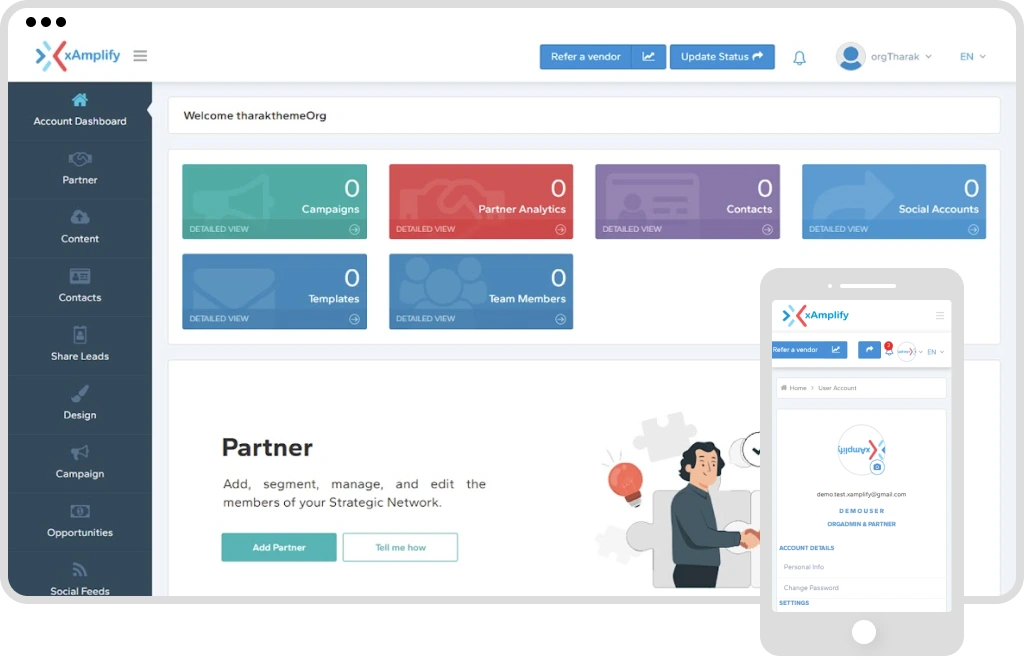
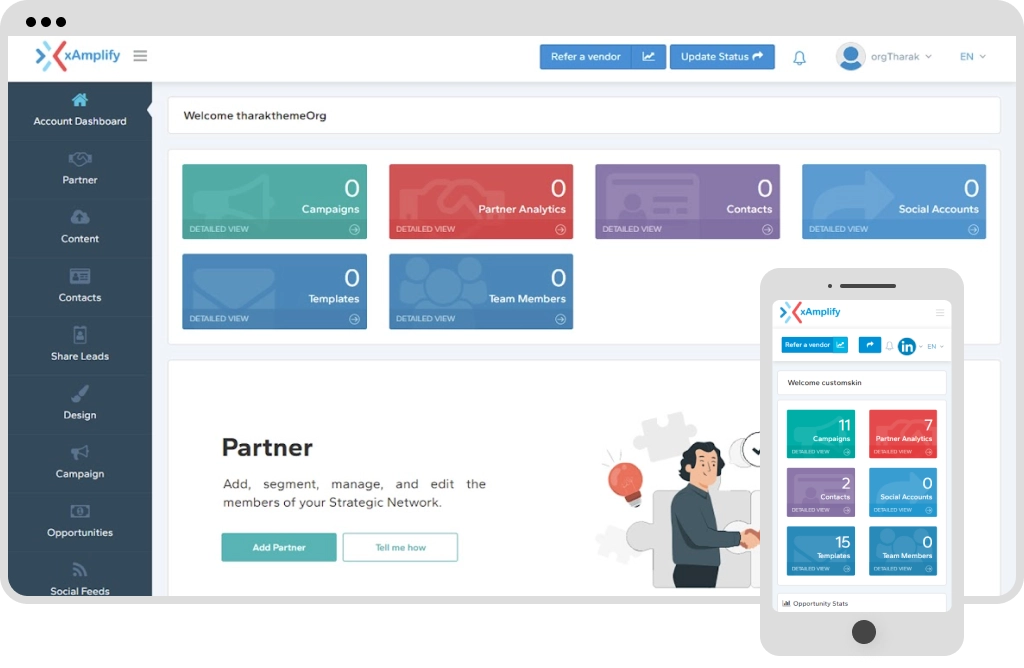
changing UI for default themes

Changed region(s): [[0.75, 0.4192, 0.9375, 0.9281], [0.0, 0.0, 1.0, 0.0599], [0.8125, 0.9281, 0.875, 0.9581]]

diff --git a/src/app/dashboard/user-profile/my-profile/my-profile.component.html b/src/app/dashboard/user-profile/my-profile/my-profile.component.html
@@ -275,7 +275,7 @@
                              || activeTabName == 'DarkTheme' || activeTabName == 'neumorphismDark'|| activeTabName == 'neumorphismLight'">
                                     <div class="btn-group" style="padding-top: 7px;">
                                         <button class="btn btn-primary padding align"
-                                            style="border-radius: 3px;" *ngIf="activeTabName == 'lightTheme'"
+                                            style="border-radius: 3px;" *ngIf="activeTabName == 'lightTheme' && themeDto?.id != activeThemeDetails?.themeId"
                                             (click)="activateThemeForCompanyWithAlert(themeDto.id)">Activate
                                             Theme</button>
                                         <!-- <button class="btn btn-primary padding align"
@@ -316,8 +316,10 @@
                                             <div *ngIf="dto?.id == 1 || dto?.id == 2">
                                             <div class="img_padding">
 
-                                                <img alt="" class="img-custome"
+                                                <img *ngIf="dto?.id == 1 " alt="" class="img-custome"
                                                     src="assets/images/theme/1/Webp/01.webp">
+                                                 <img *ngIf="dto?.id == 2 " alt="" class="img-custome"
+                                                    src="assets/images/theme/1/Webp/02.webp">
 
                                             </div>
                                             <div class="card-bg topcard-padding">
@@ -327,16 +329,35 @@
                                                     <br>
                                                     <h5 class="card-title themefont">{{dto.name}} Theme</h5>
 
-                                                    <button type="button" class="btn  btn-size btn-selectcolor"
+                                                    <!-- <button type="button" class="btn  btn-size btn-selectcolor"
                                                         (click)="viewTheme();showDto(dto)"> <i
                                                             class="fa fa-eye" aria-hidden="true"></i>
-                                                        View</button>
+                                                        View </button>
                                                     <button type="button" *ngIf="dto.defaultTheme"
                                                         class="btn  btn-size"
                                                         [ngClass]="authenticationService?.isCustomTheme?'btn-selectcolor':'btn-notselectcolor'"
                                                         (click)="goToCustomThemes();showDto(dto);"> <i
                                                             class="fa fa-files-o" aria-hidden="true"></i>
-                                                        Copy</button>
+                                                        Copy</button> -->
+                                                        <td class="mAlignView">
+                                                            <div class="actions-block override-actions ActionAlign">
+                                                                <div class="mActionAlign ActionButtonPad iconmobile-align">
+                                                                    <a class="mMobileDisable" title="View"
+                                                                        (click)="viewTheme();showDto(dto);"><i
+                                                                            aria-hidden="true"
+                                                                            class="fa fa-eye mDisableColor"></i></a>
+                                                                    <a title="Activate"
+                                                                        (click)="activateThemeForCompanyWithAlert(dto.id)"
+                                                                        *ngIf="dto?.id != activeThemeDetails?.themeId"><i
+                                                                            _ngcontent-c69="" aria-hidden="true"
+                                                                            class="fa fa-power-off"></i></a>
+                                                                    <a class="mMobileDisable" title="Copy"
+                                                                        (click)="goToCustomThemes();showDto(dto);saveTheme();"><i
+                                                                            aria-hidden="true"
+                                                                            class="fa fa-files-o mDisableColor"></i></a>
+                                                                </div>
+                                                            </div>
+                                                        </td>
                                                 </div>
                                             </div>
                                             </div>
@@ -380,7 +401,7 @@
                                                             *ngIf="dto?.id != activeThemeDetails?.themeId"><i
                                                                 _ngcontent-c69="" aria-hidden="true"
                                                                 class="fa fa-power-off"></i></a>
-                                                        <a class="mMobileDisable" title="copy"
+                                                        <a class="mMobileDisable" title="Copy"
                                                             (click)="goToCustomThemes();showDto(dto);saveTheme();"><i
                                                                 aria-hidden="true"
                                                                 class="fa fa-files-o mDisableColor"></i></a>
@@ -1358,17 +1379,17 @@
                                         <div class="col-xs-12 col-sm-12 col-lg-12">
                                             <div class="col-md-9 col-sm-9 col-xs-12 desktopview">
                                                 <div class="desktopview-align">
-                                                    <img  *ngIf="themeDto.id==1"  src="assets/images/theme/1/Webp/desktop.png"
+                                                    <img  *ngIf="themeDto.id==1"  src="assets/images/theme/1/Webp/Desktop.webp"
                                                         class="desktopimg-custome">
-                                                        <img  *ngIf="themeDto.id==2"  src="assets/images/theme/1/Webp/Rectangle42.webp"
+                                                        <img  *ngIf="themeDto.id==2"  src="assets/images/theme/1/Webp/dd.webp"
                                                         class="desktopimg-custome">
                                                 </div>
                                             </div>
                                             <div class="col-md-3 col-sm-3 col-xs-12 mobileview">
                                                 <div class="mobileview-align">
-                                                    <img *ngIf="themeDto.id==1"src="assets/images/theme/1/Webp/mobile.png"
+                                                    <img *ngIf="themeDto.id==1"src="assets/images/theme/1/Webp/mobile.webp"
                                                         class="mobileimg-custome">
-                                                        <img *ngIf="themeDto.id==2"src="assets/images/theme/1/Webp/unnamed.webp"
+                                                        <img *ngIf="themeDto.id==2"src="assets/images/theme/1/Webp/dm.webp"
                                                         class="mobileimg-custome">
                                                 </div>
                                             </div>
